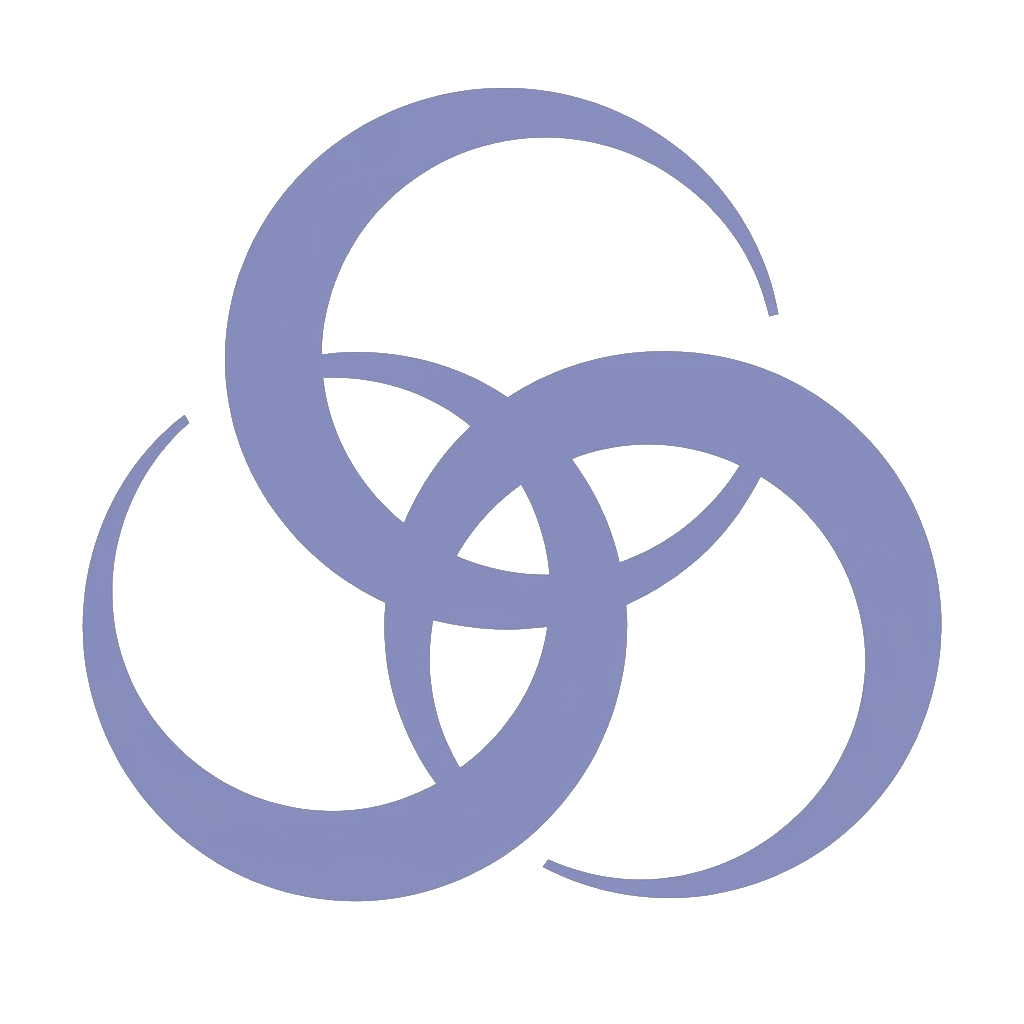
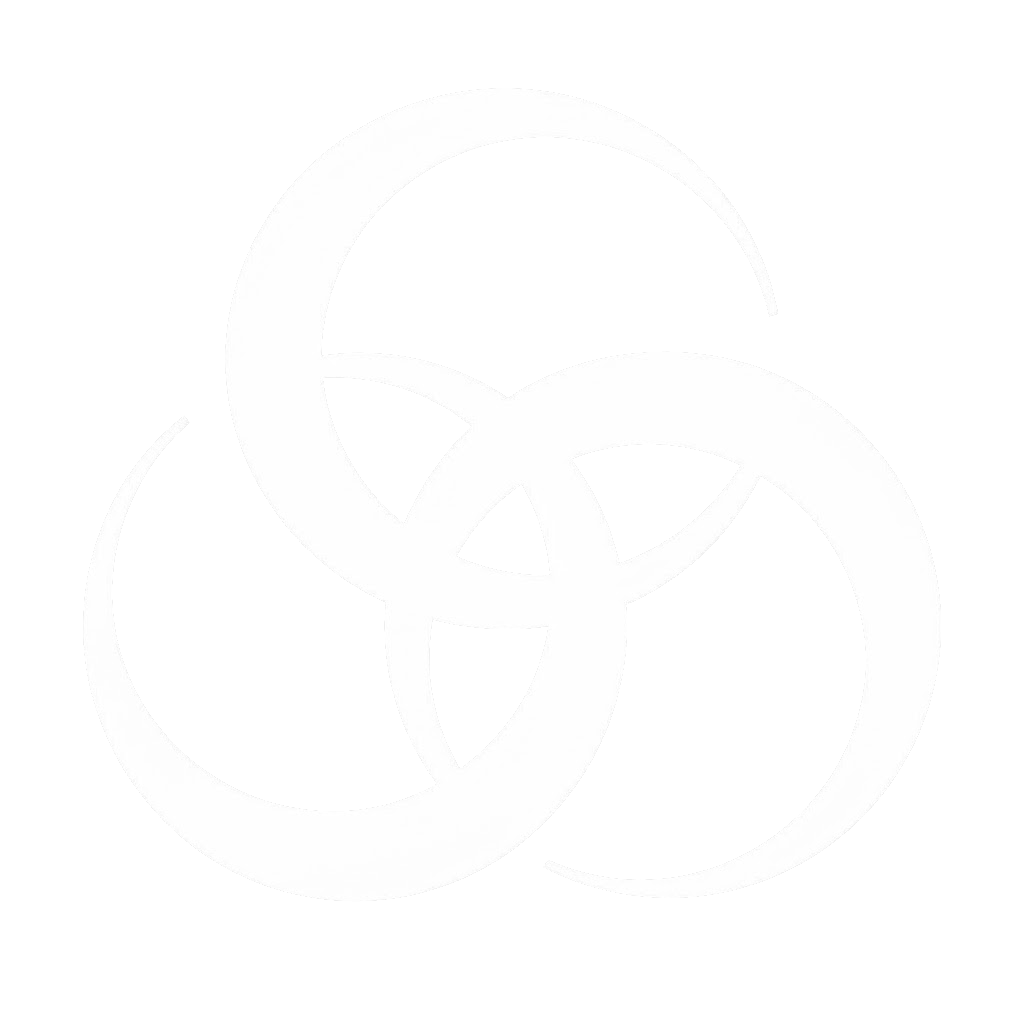
feat: 在部分角色按钮增加“月之轮”图标

diff --git a/lib/screens/character_list_page.dart b/lib/screens/character_list_page.dart
@@ -1070,6 +1070,25 @@ class _CharacterButton extends StatelessWidget {
   final Character character;
   final VoidCallback onTap;
 
+  /// 需要在中文名与元素图标之间额外插入「月轮」图标的角色。
+  static const List<String> _moonWheelNames = <String>[
+    '伊涅芙',
+    '菈乌玛',
+    '菲林斯',
+    '奈芙尔',
+    '兹白',
+    '莉奈娅',
+    '哥伦比娅',
+  ];
+
+  /// 月轮图标资源路径。
+  static const String _moonWheelIconPath = 'assets/elements/moon_wheel.png';
+
+  /// 当前角色是否需要显示月轮图标。
+  ///
+  /// 中文名两端可能混入空格，先 `trim()` 再比对。
+  bool get _showMoonWheel => _moonWheelNames.contains(character.zhName.trim());
+
   @override
   Widget build(BuildContext context) {
     return SolidGradientButton(
@@ -1117,34 +1136,57 @@ class _CharacterButton extends StatelessWidget {
                   letterSpacing: 2.0,
                 ),
               ),
+              // 部分角色在中文名与元素图标之间多一枚「月轮」图标，
+              // 尺寸与光效同右侧元素图标完全一致。
+              if (_showMoonWheel) ...<Widget>[
+                const SizedBox(width: 12),
+                const _GlowIcon(assetPath: _moonWheelIconPath),
+              ],
               const SizedBox(width: 12),
-              // 用 Container 的 boxShadow 给透明 PNG 图标叠加一圈
-              // 极淡的白色柔光，避免光晕盖过图标本身的细节。
-              Container(
-                decoration: BoxDecoration(
-                  shape: BoxShape.circle,
-                  boxShadow: <BoxShadow>[
-                    BoxShadow(
-                      color: Colors.white.withValues(alpha: 0.2),
-                      blurRadius: 4,
-                      spreadRadius: 0.5,
-                    ),
-                  ],
-                ),
-                child: Image.asset(
-                  character.elementIconPath,
-                  width: 24,
-                  height: 24,
-                  fit: BoxFit.contain,
-                  // 原始图标约 3000px 宽，按 24dp 显示时只需解码到 96px，
-                  // 避免几张超大 PNG 占满 ImageCache。
-                  cacheWidth: 96,
-                  excludeFromSemantics: true,
-                ),
-              ),
+              _GlowIcon(assetPath: character.elementIconPath),
             ],
           ),
         ],
+      ),
+    );
+  }
+}
+
+/// 带柔光的圆形小图标。
+///
+/// 用 Container 的 boxShadow 给透明 PNG 叠加一圈极淡的白色柔光，
+/// 避免光晕盖过图标本身的细节。元素图标与「月轮」图标共用这段渲染，
+/// 保证两者的尺寸（24×24）、光晕与解码方式完全一致。
+class _GlowIcon extends StatelessWidget {
+  const _GlowIcon({required this.assetPath, this.size = 24});
+
+  final String assetPath;
+
+  /// 图标边长，默认 24。
+  final double size;
+
+  @override
+  Widget build(BuildContext context) {
+    return Container(
+      decoration: BoxDecoration(
+        shape: BoxShape.circle,
+        boxShadow: <BoxShadow>[
+          BoxShadow(
+            color: Colors.white.withValues(alpha: 0.2),
+            blurRadius: 4,
+            spreadRadius: 0.5,
+          ),
+        ],
+      ),
+      child: Image.asset(
+        assetPath,
+        width: size,
+        height: size,
+        fit: BoxFit.contain,
+        // 原始图标约 3000px 宽，按 24dp 显示时只需解码到 96px，
+        // 避免几张超大 PNG 占满 ImageCache。
+        cacheWidth: (size * 4).round(),
+        excludeFromSemantics: true,
       ),
     );
   }
